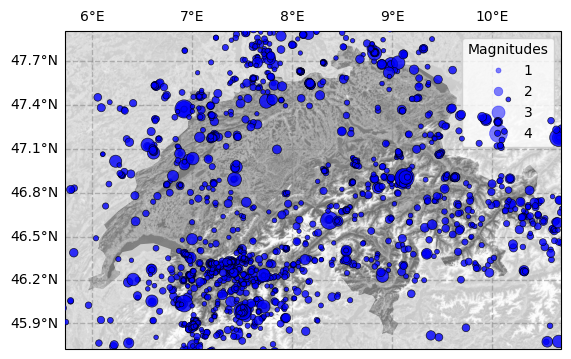
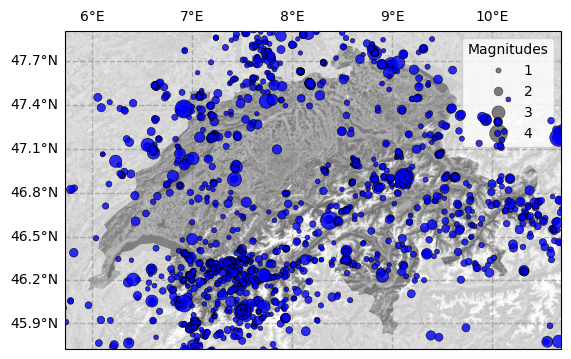
Change dot label color

diff --git a/seismostats/plots/seismicity.py b/seismostats/plots/seismicity.py
@@ -7,6 +7,7 @@ import matplotlib.pyplot as plt
 import numpy as np
 from cartopy.io import shapereader
 from cartopy.mpl.gridliner import LATITUDE_FORMATTER, LONGITUDE_FORMATTER
+
 # for map plotting
 from shapely.geometry import Polygon
 
@@ -183,7 +184,7 @@ def plot_in_space(
         handles, labels = points.legend_elements(
             prop="sizes",
             num=dot_labels,
-            c="blue",
+            c="k",
             alpha=0.5,
             func=lambda x: reverse_dot_size(
                 x,
